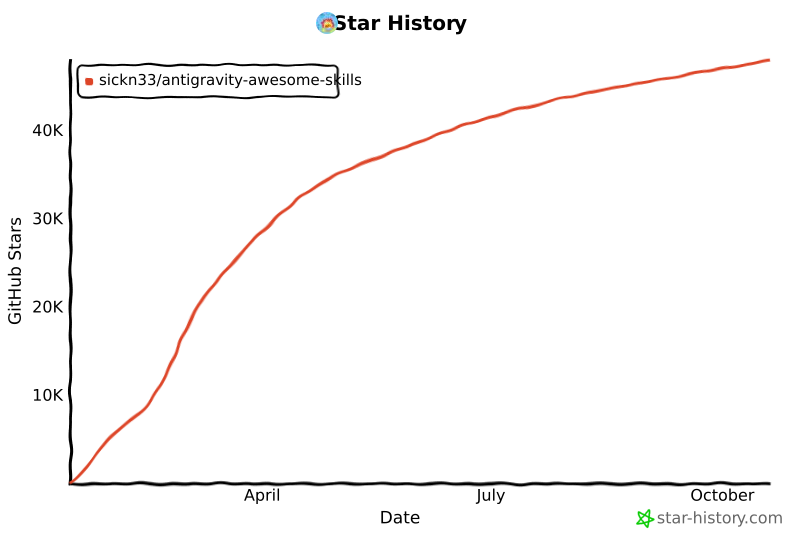
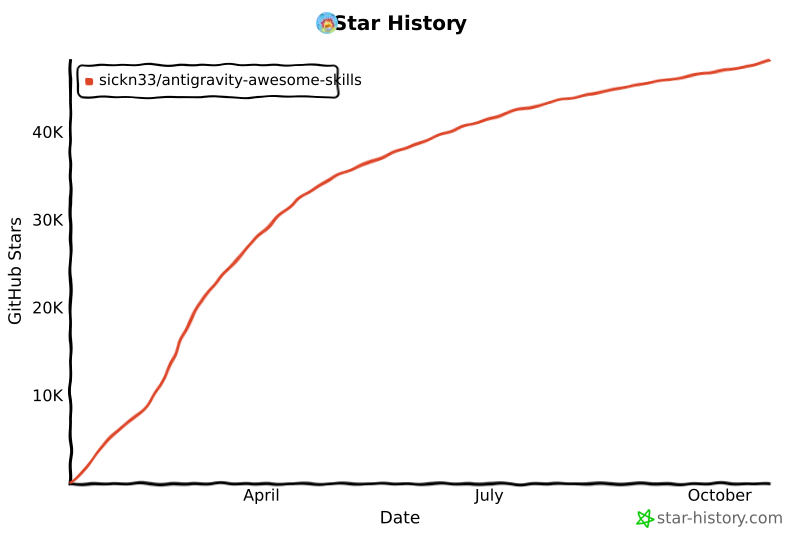
chore: update star history chart

diff --git a/README.md b/README.md
@@ -518,14 +518,14 @@ We officially thank the following contributors for their help in making this rep
 ## Star History
 
 <a href="https://www.star-history.com/#sickn33/antigravity-awesome-skills&type=date&legend=top-left">
- <img alt="Star History Chart" src="https://api.star-history.com/svg?repos=sickn33/antigravity-awesome-skills&type=date&legend=top-left&cache_bust=202610201036" />
+ <img alt="Star History Chart" src="https://api.star-history.com/svg?repos=sickn33/antigravity-awesome-skills&type=date&legend=top-left&cache_bust=202610211047" />
 </a>
 
 <a href="https://www.star-history.com/sickn33/antigravity-awesome-skills">
  <picture>
-   <source media="(prefers-color-scheme: dark)" srcset="https://api.star-history.com/chart?repos=sickn33/antigravity-awesome-skills&style=landscape1&theme=dark&cache_bust=202610201036" />
-   <source media="(prefers-color-scheme: light)" srcset="https://api.star-history.com/chart?repos=sickn33/antigravity-awesome-skills&style=landscape1&cache_bust=202610201036" />
-   <img alt="Star History Chart" src="https://api.star-history.com/chart?repos=sickn33/antigravity-awesome-skills&style=landscape1&cache_bust=202610201036" />
+   <source media="(prefers-color-scheme: dark)" srcset="https://api.star-history.com/chart?repos=sickn33/antigravity-awesome-skills&style=landscape1&theme=dark&cache_bust=202610211047" />
+   <source media="(prefers-color-scheme: light)" srcset="https://api.star-history.com/chart?repos=sickn33/antigravity-awesome-skills&style=landscape1&cache_bust=202610211047" />
+   <img alt="Star History Chart" src="https://api.star-history.com/chart?repos=sickn33/antigravity-awesome-skills&style=landscape1&cache_bust=202610211047" />
  </picture>
 </a>
 
